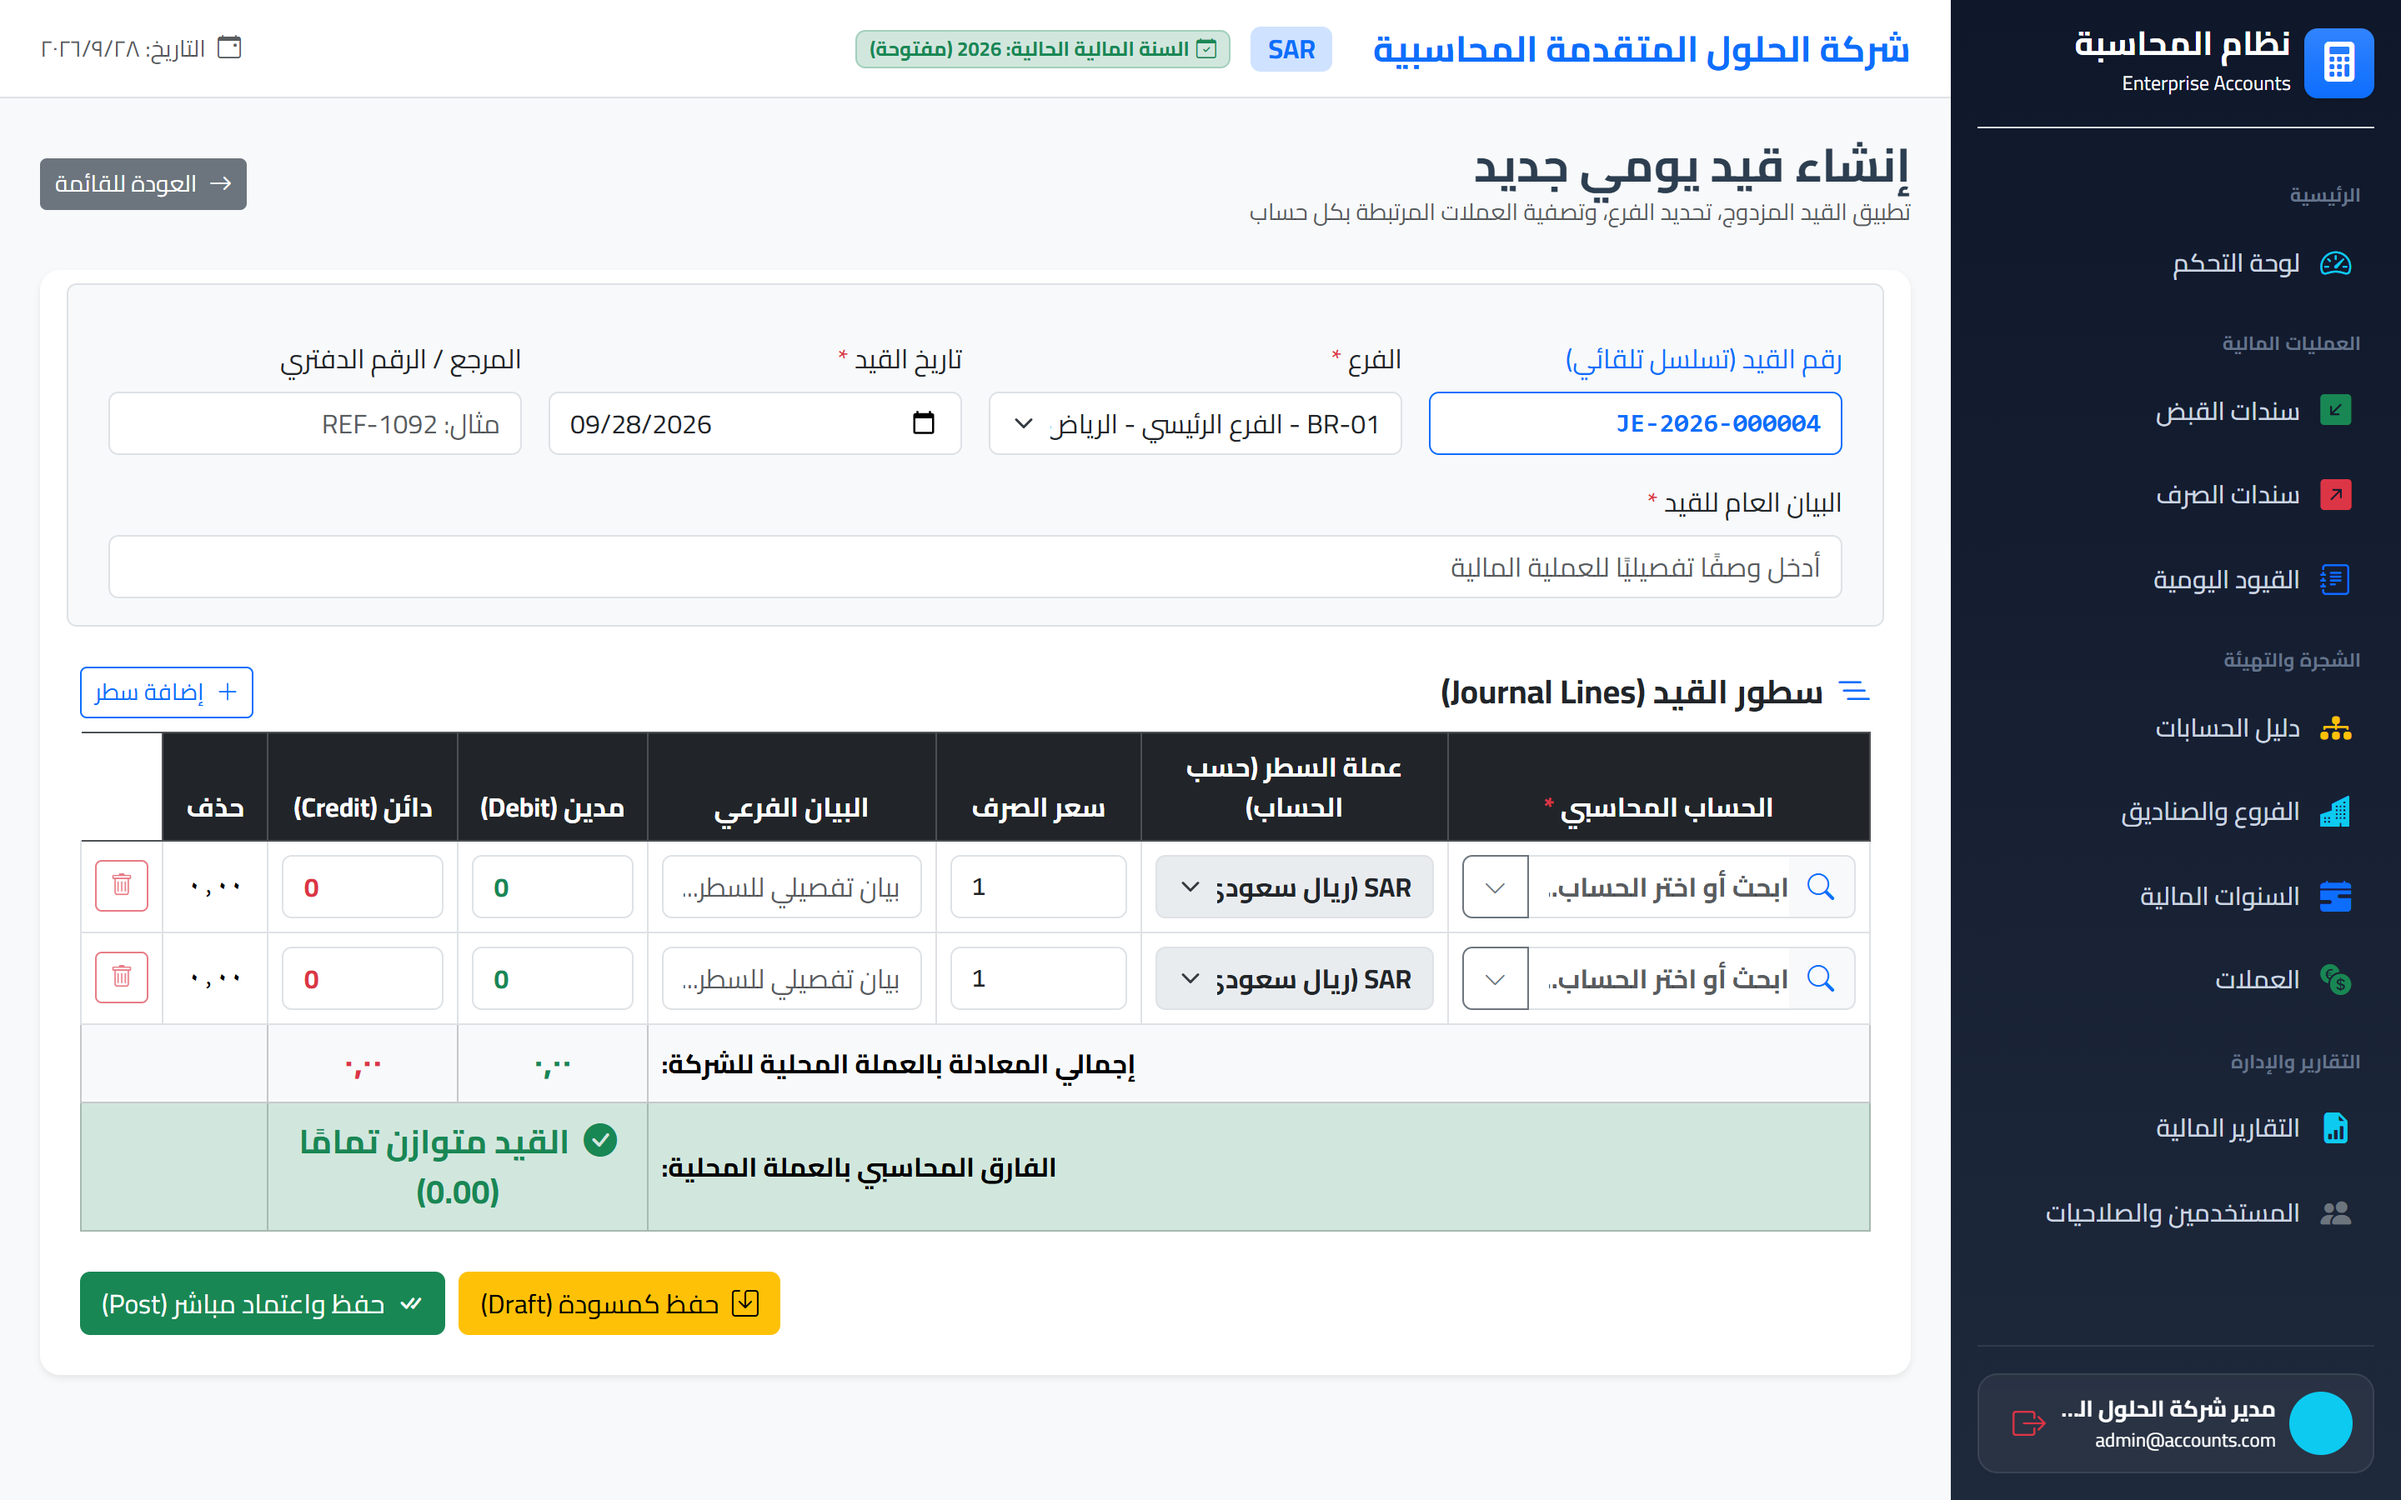
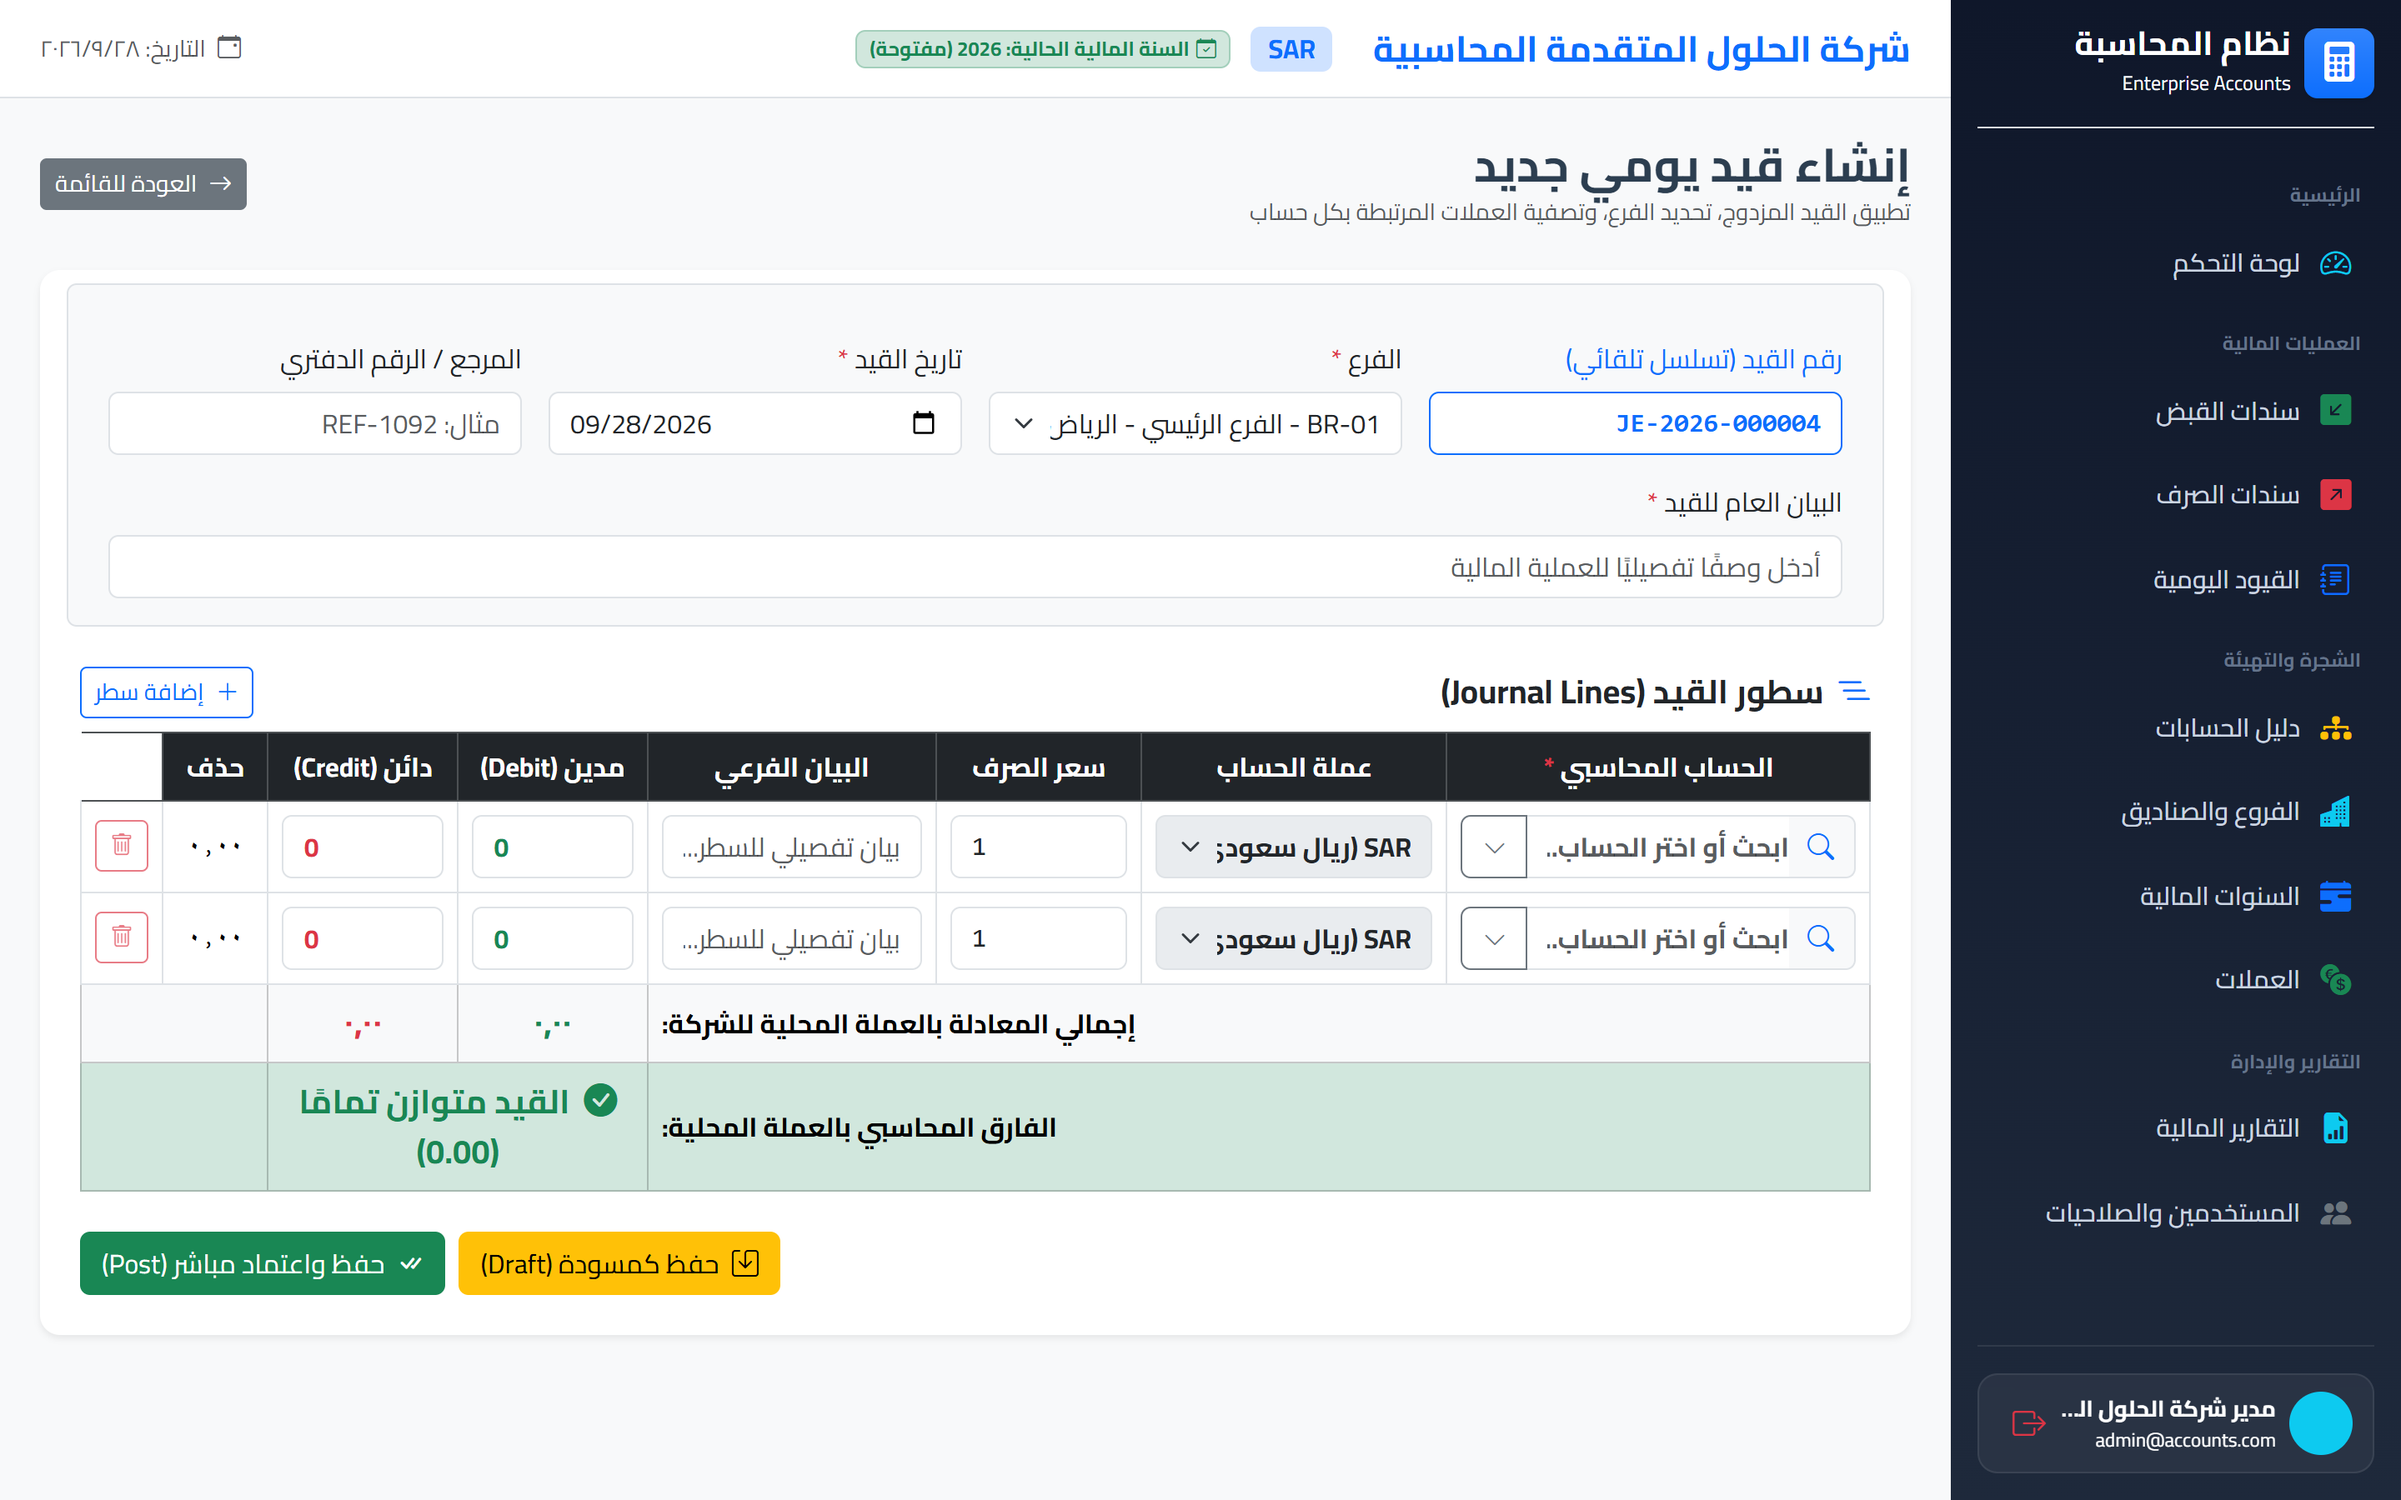
fix: rename journal line currency column to "account currency"
Update the journal entry screenshot to match.

Changed region(s): [[0.0312, 0.4978, 0.7812, 0.9022]]

diff --git a/resources/js/views/JournalEntryCreateView.vue b/resources/js/views/JournalEntryCreateView.vue
@@ -61,7 +61,7 @@
             <thead class="table-dark text-center">
               <tr>
                 <th style="width: 25%;">الحساب المحاسبي <span class="text-danger">*</span></th>
-                <th style="width: 18%;">عملة السطر (حسب الحساب)</th>
+                <th style="width: 18%;">عملة الحساب</th>
                 <th style="width: 12%;">سعر الصرف</th>
                 <th style="width: 17%;">البيان الفرعي</th>
                 <th style="width: 11%;">مدين (Debit)</th>
